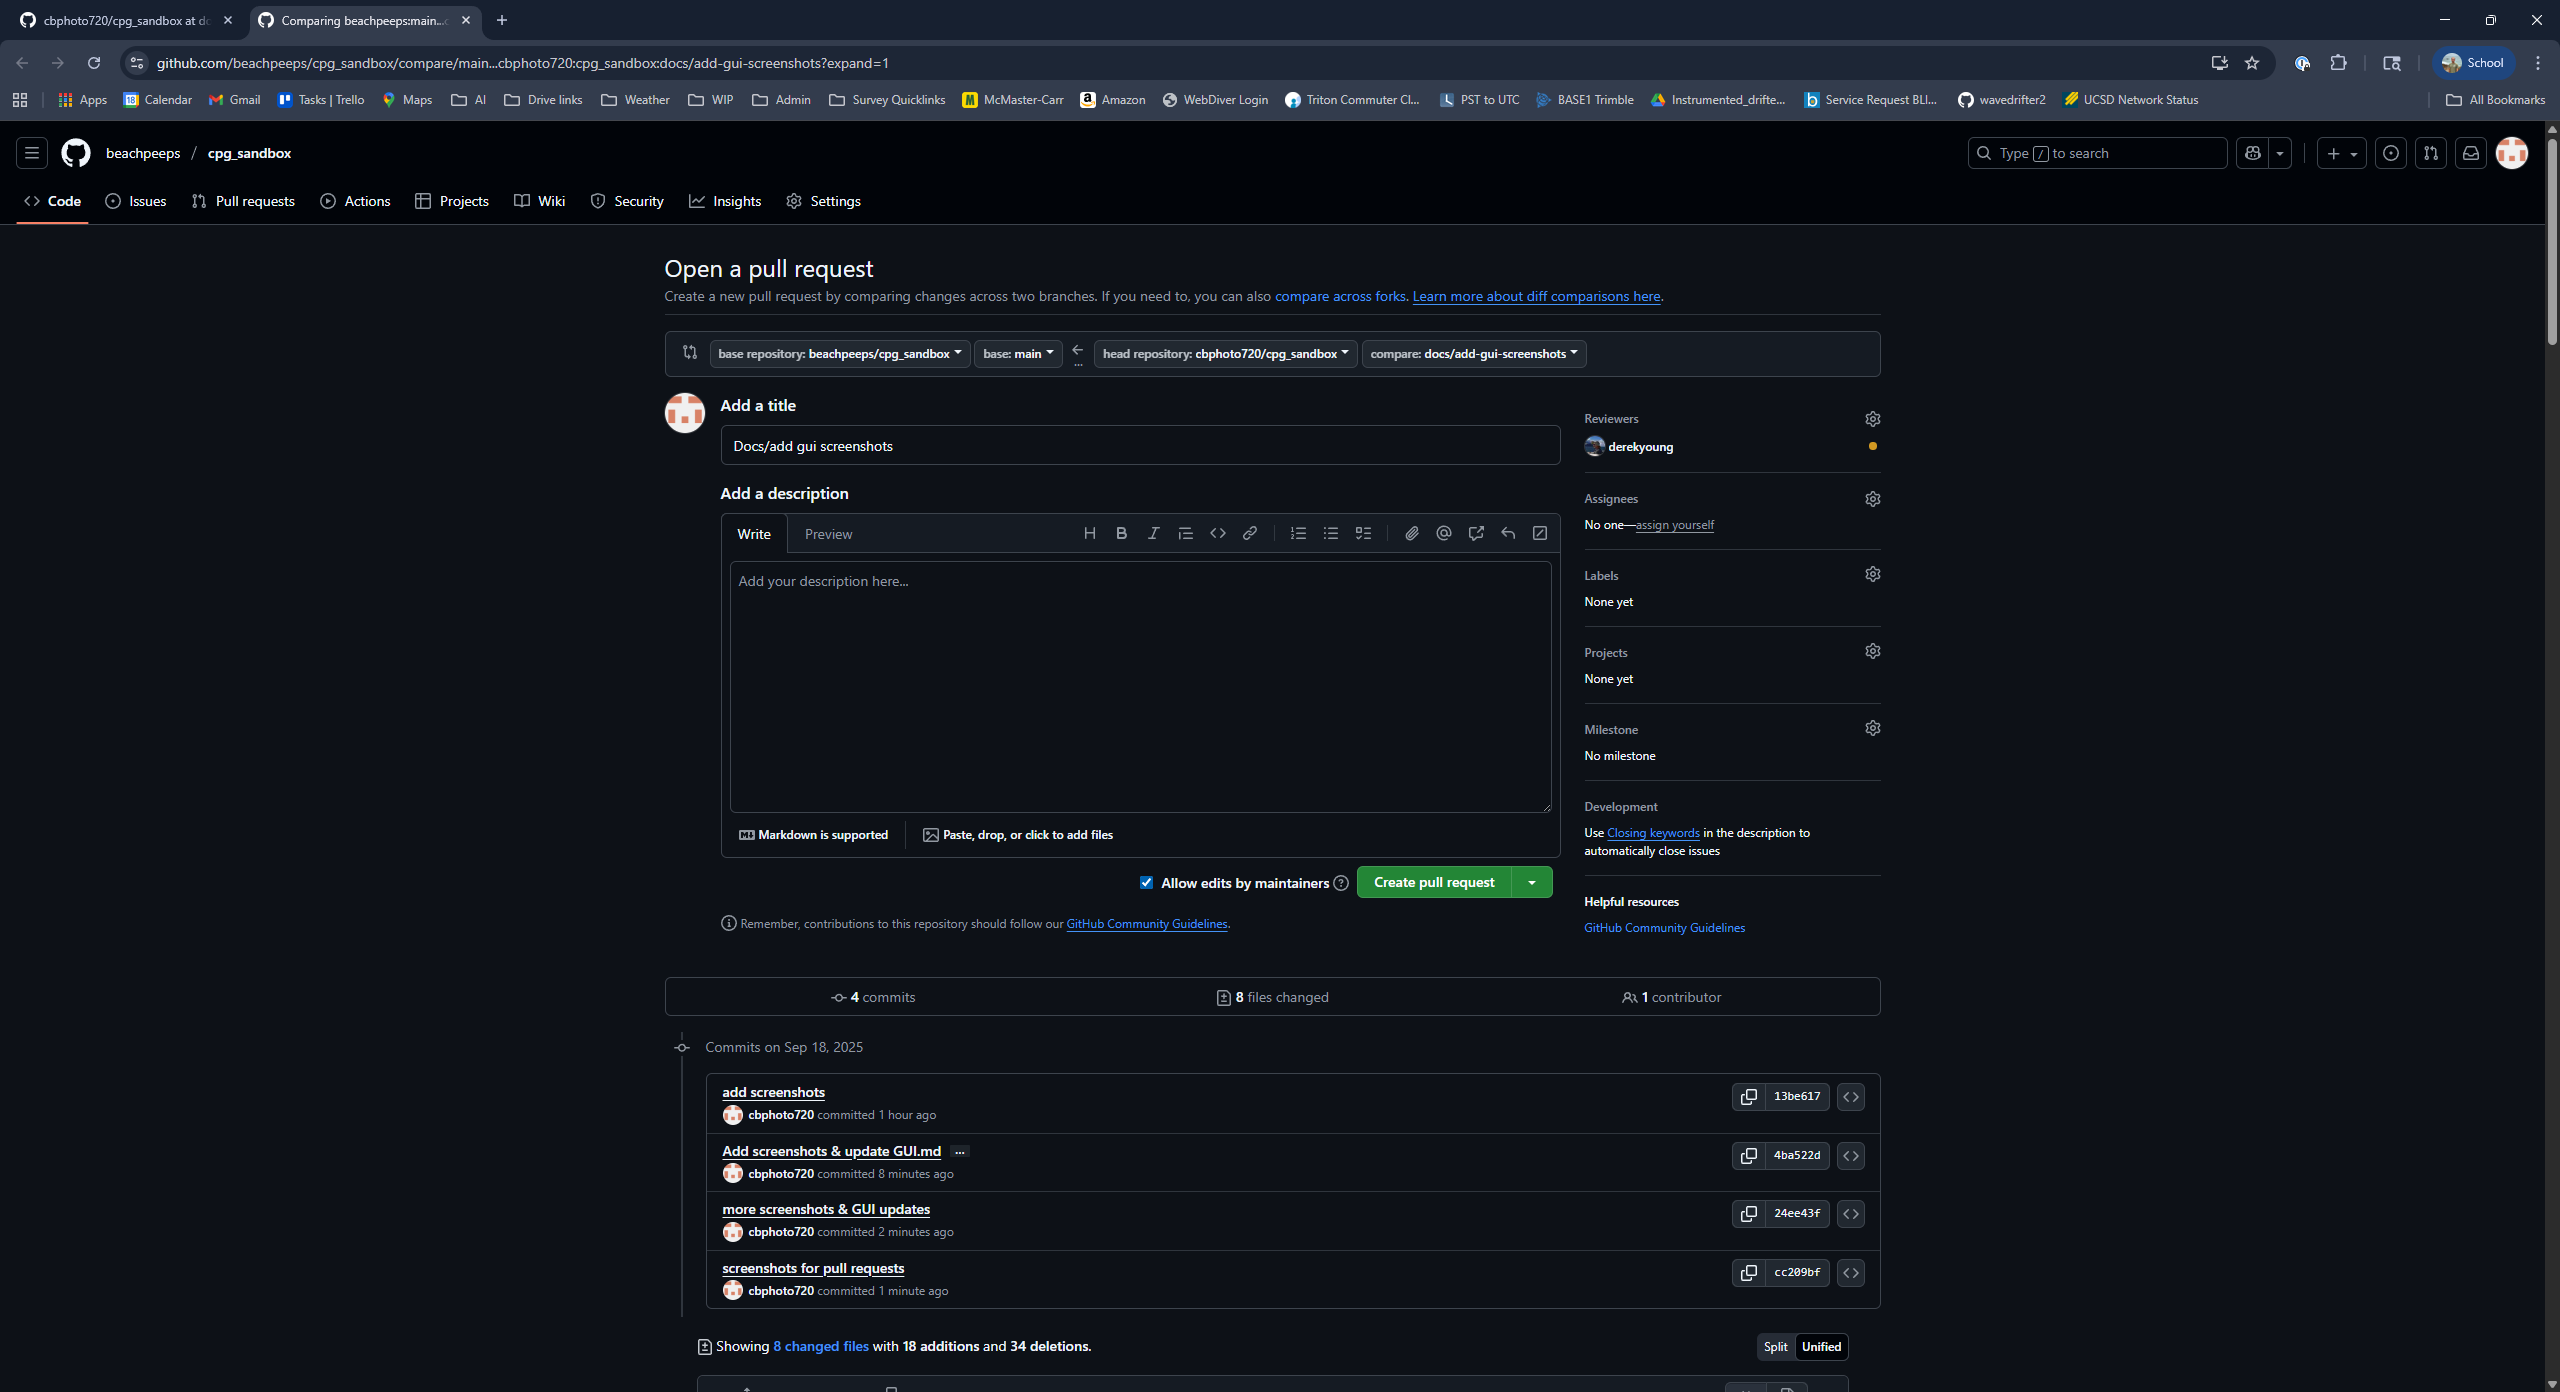
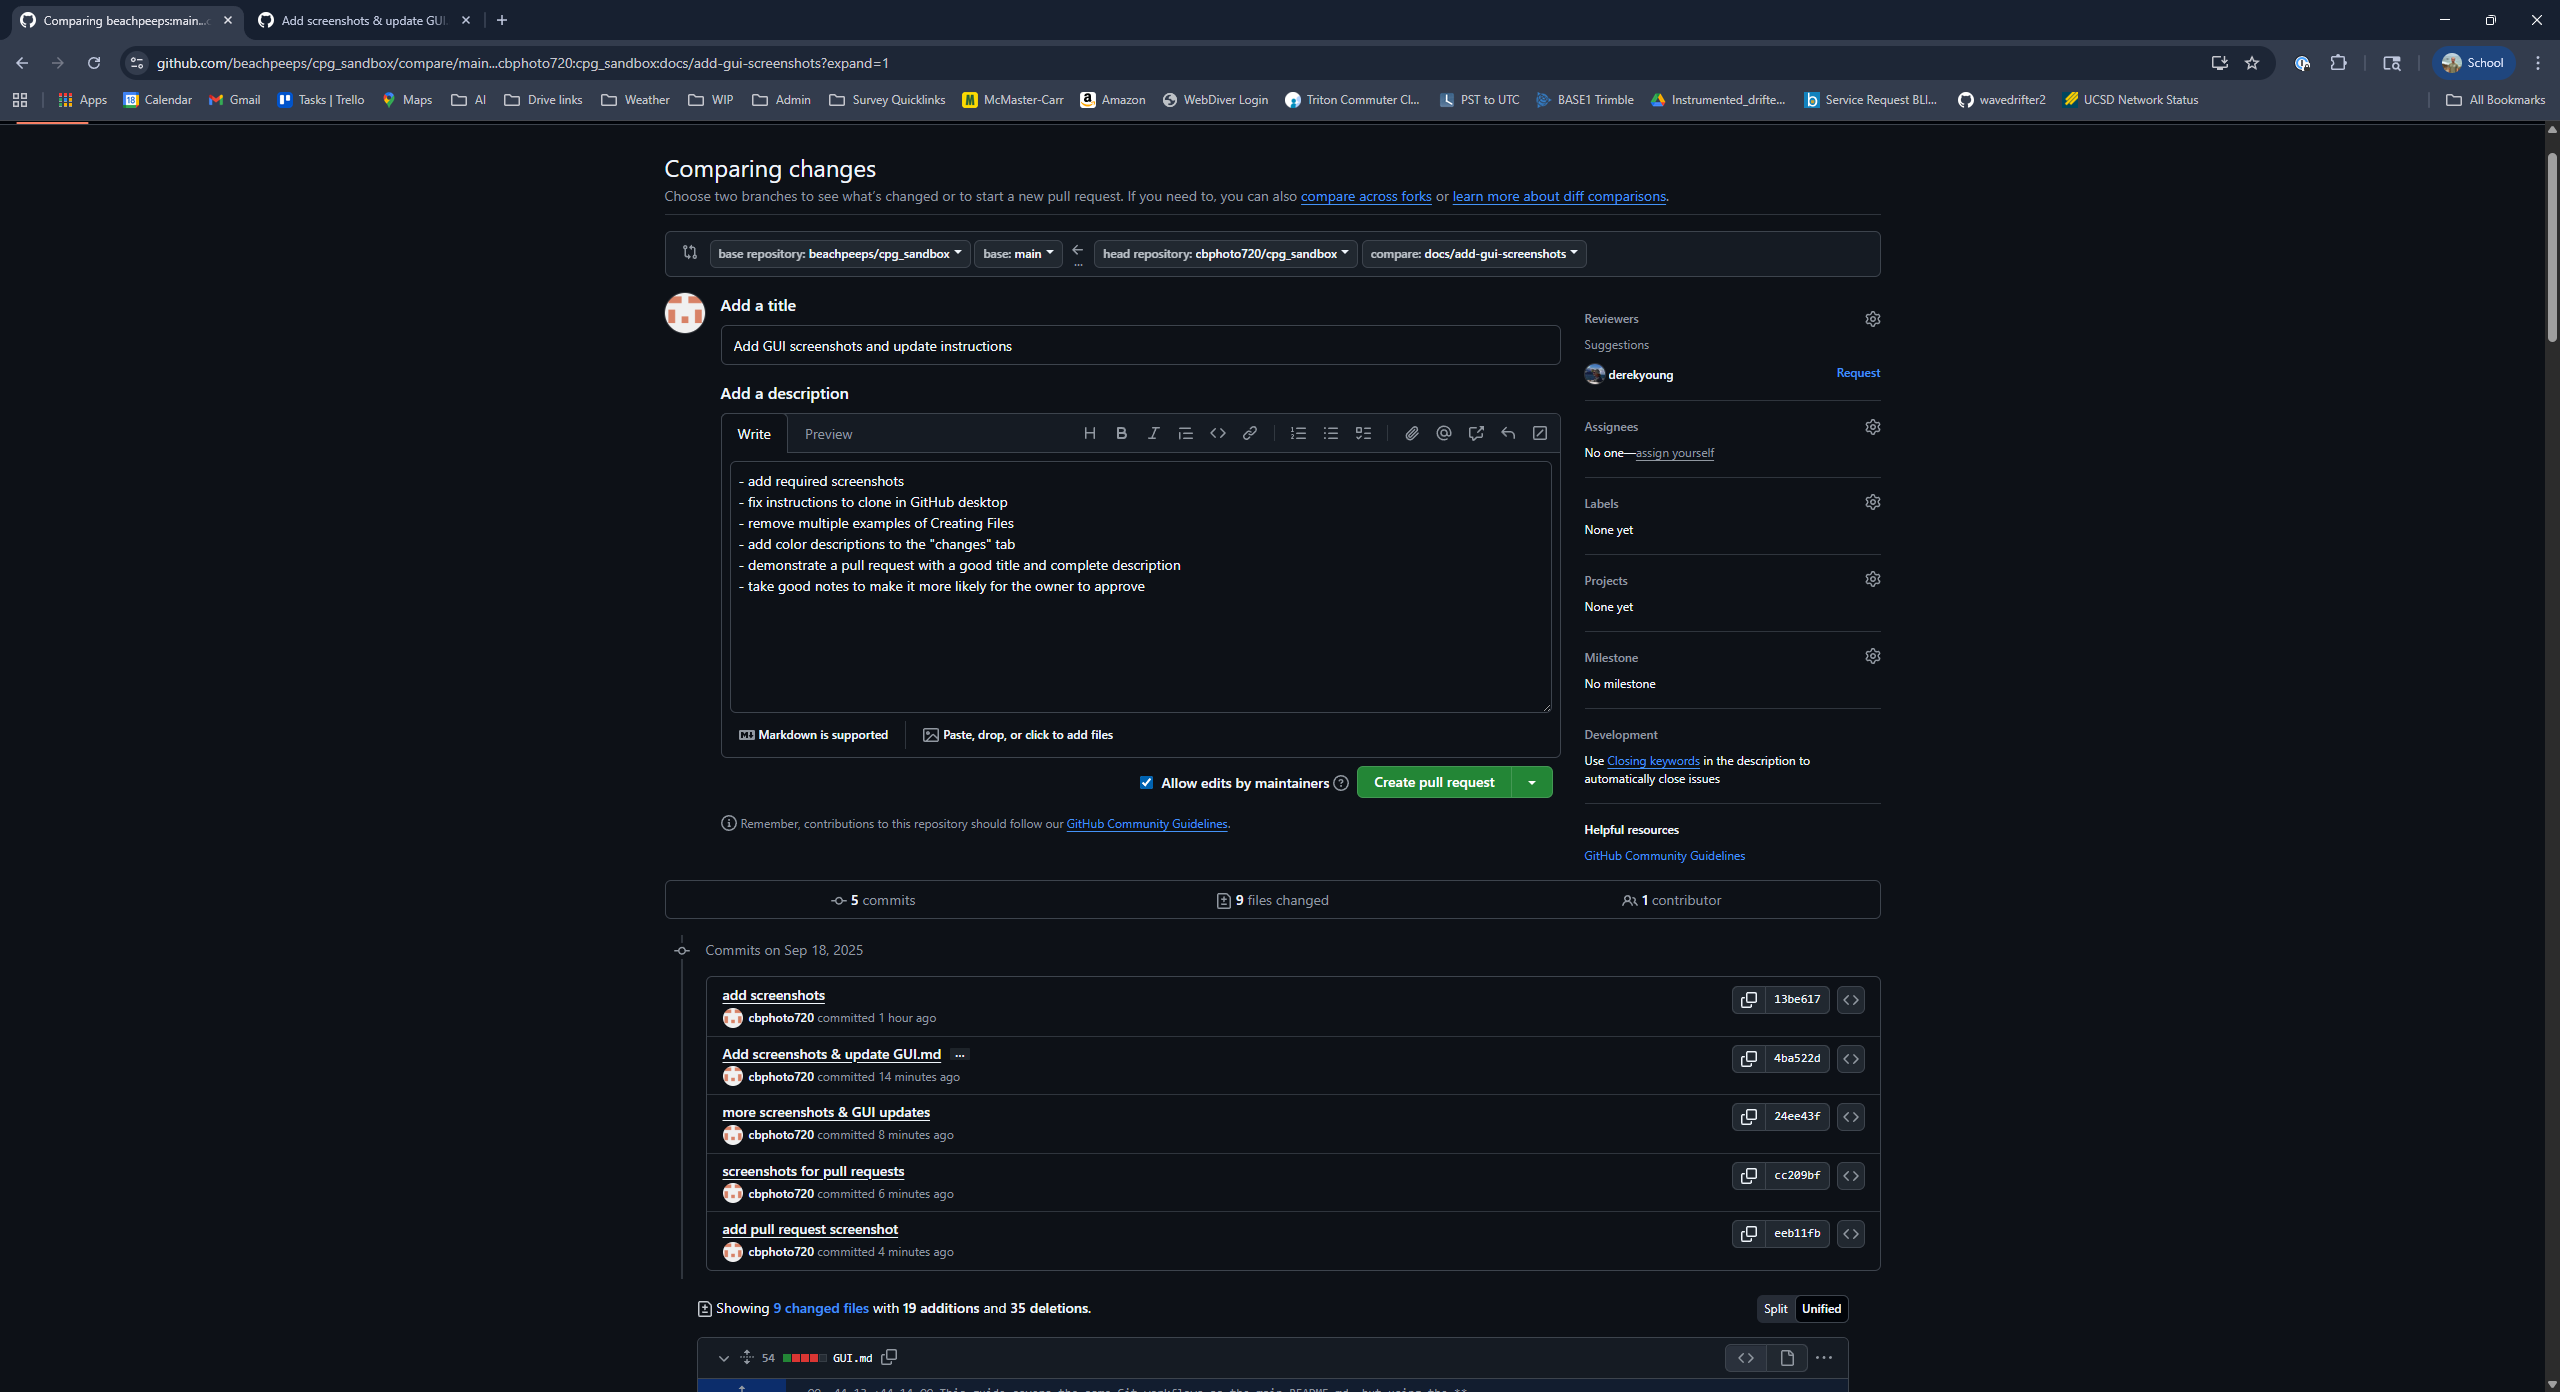
add branch history & update pull request img

diff --git a/GUI.md b/GUI.md
@@ -226,8 +226,6 @@ console.log("10 - 4 =", subtract(10, 4));
 1. Click the **"Commit to [branch-name]"** button
 2. Your changes are now committed to your local branch
 
-*Screenshot needed: Commit interface with message and commit button*
-
 ### 5. (Optional) View Your Commit
 
 1. Switch to the **"History"** tab
@@ -287,8 +285,6 @@ console.log("10 - 4 =", subtract(10, 4));
 2. Click **"Create pull request"**
 3. Your pull request is now submitted for review
 
-*Screenshot needed: Completed pull request*
-
 ## Useful GitHub Desktop Features
 
 ### Repository Management
@@ -314,8 +310,6 @@ console.log("10 - 4 =", subtract(10, 4));
 2. Select **"Delete [branch-name]"**
 3. Confirm the deletion
 
-*Screenshot needed: Branch management options*
-
 ### History and Comparison
 
 #### Viewing Commit History
@@ -327,7 +321,7 @@ console.log("10 - 4 =", subtract(10, 4));
 1. In the History tab, select two commits or branches
 2. See a side-by-side comparison of changes
 
-*Screenshot needed: History view with commit details*
+![main GUI img](imgs/branch-history.png)
 
 ### Synchronization
 
